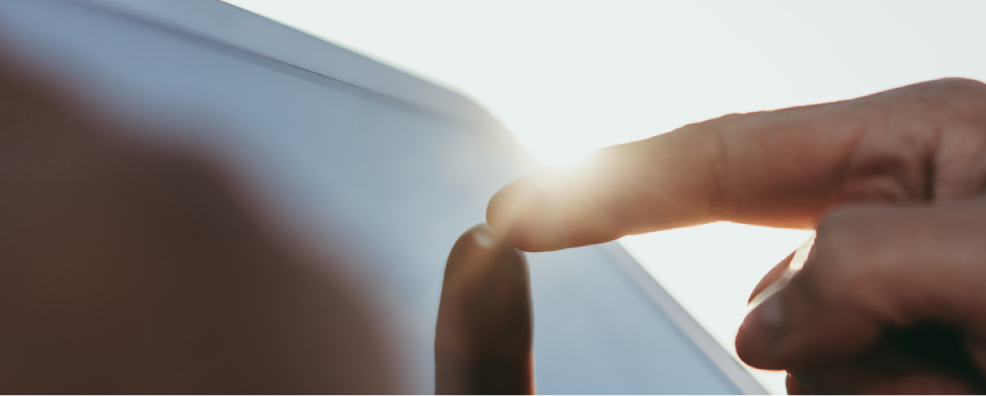
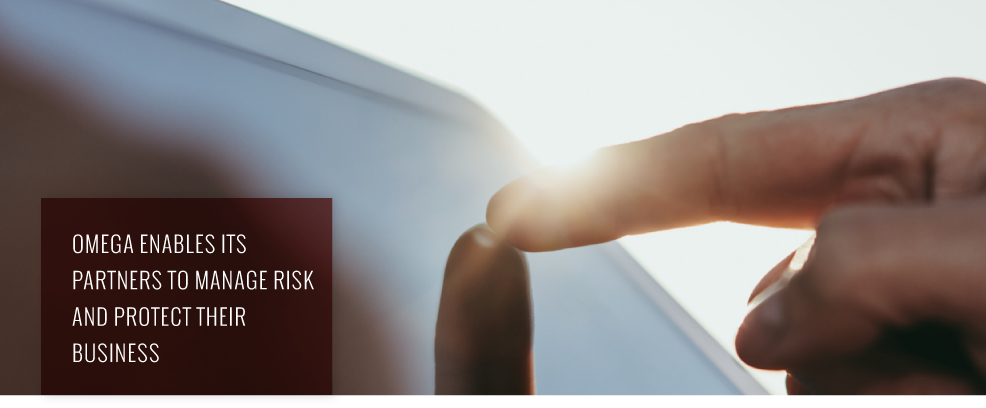
before replace image

diff --git a/wp-content/themes/omega/assets/css/main.css b/wp-content/themes/omega/assets/css/main.css
@@ -7347,6 +7347,17 @@ footer .copyright a {
 .innerContentContainer .contentContainer {
   padding: 20px;
 }
+.innerContentContainer .contentContainer .banner_text h2 {
+  margin-top: 0;
+  margin-bottom: 10p;
+}
+.innerContentContainer .contentContainer .banner_text p {
+  line-height: 150%;
+  font-family: "Oswald" !important;
+  font-weight: 300;
+  font-size: 18px;
+  text-transform: uppercase;
+}
 .innerContentContainer .contentContainer p {
   color: #000;
   font-family: "aileronlight";
@@ -7398,16 +7409,17 @@ footer .copyright a {
     position: relative;
   }
   .innerContentContainer .contentBannerContainer .banner_text {
-    background-color: rgba(150, 57, 52, 0.8);
-    margin-bottom: 0;
-    padding: 30px;
-    position: absolute;
-    max-width: 300px;
-    bottom: 0;
-    left: 50px;
-  }
-  .innerContentContainer .contentBannerContainer .banner_text.grey_bg {
-    background-color: rgba(113, 113, 116, 0.8);
+    /*background-color:rgba(150, 57, 52, 0.8);
+				margin-bottom:0;
+				padding:30px;
+				position:absolute;
+				max-width:300px;
+				bottom:0;
+				left:50px;*/
+    display: none;
+    /*&.grey_bg{
+					background-color:rgba(113, 113, 116, 0.8);
+				}*/
   }
   .innerContentContainer .contentContainer {
     padding: 40px;
@@ -7620,7 +7632,7 @@ footer .copyright a {
   text-transform: uppercase;
 }
 .post-listing .news_item {
-  border-bottom: 1px solid #ddd;
+  border-bottom: 3px solid #ddd;
   margin-top: 10px;
   font-family: Aileron;
   font-size: 14px;
@@ -7918,6 +7930,9 @@ footer .copyright a {
 #menu-primary-navigation .sub-menu > li a {
   letter-spacing: 1px;
   font-size: 11px;
+}
+#menu-primary-navigation .sub-menu li.active a {
+  font-weight: 700;
 }
 #menu-primary-navigation .sub-menu .sub-menu li a {
   letter-spacing: 1px;

diff --git a/wp-content/themes/omega/assets/less/layouts/pages/_general-content.less b/wp-content/themes/omega/assets/less/layouts/pages/_general-content.less
@@ -38,6 +38,19 @@
 	
 	.contentContainer{
 		padding:20px;
+		.banner_text{
+			h2{
+				margin-top: 0;
+    			margin-bottom: 10p;
+			}
+			p{
+				line-height: 150%;
+				font-family: "Oswald" !important;
+				font-weight: 300;
+				font-size: 18px;
+				text-transform: uppercase;
+			}
+		}
 		p {
 			color: #000;
 			font-family: "aileronlight";
@@ -103,17 +116,18 @@
 		.contentBannerContainer{
 			position:relative;
 			.banner_text{
-				background-color:rgba(150, 57, 52, 0.8);
+				/*background-color:rgba(150, 57, 52, 0.8);
 				margin-bottom:0;
 				padding:30px;
 				position:absolute;
 				max-width:300px;
 				bottom:0;
-				left:50px;
+				left:50px;*/
+				display: none;
 				
-				&.grey_bg{
+				/*&.grey_bg{
 					background-color:rgba(113, 113, 116, 0.8);
-				}
+				}*/
 			}
 		}
 		

diff --git a/wp-content/themes/omega/assets/less/navmenu.less b/wp-content/themes/omega/assets/less/navmenu.less
@@ -77,12 +77,18 @@
 		&>li a{
 			letter-spacing: 1px;
 			font-size: 11px;
+
+		}
+		li.active a{
+			font-weight: 700;
 		}
 		.sub-menu li{
 			a{
 				letter-spacing: 1px;
 				font-size: 8.5px;
 				text-transform: none;
+
+
 			}
 		}
 	}

diff --git a/wp-content/themes/omega/assets/less/layouts/pages/_news.less b/wp-content/themes/omega/assets/less/layouts/pages/_news.less
@@ -153,7 +153,7 @@
 		}
 	}
 	.news_item{
-		border-bottom:1px solid #ddd;
+		border-bottom:3px solid #ddd;
 		margin-top:10px;
 		font-family: Aileron;
 		font-size: 14px;
